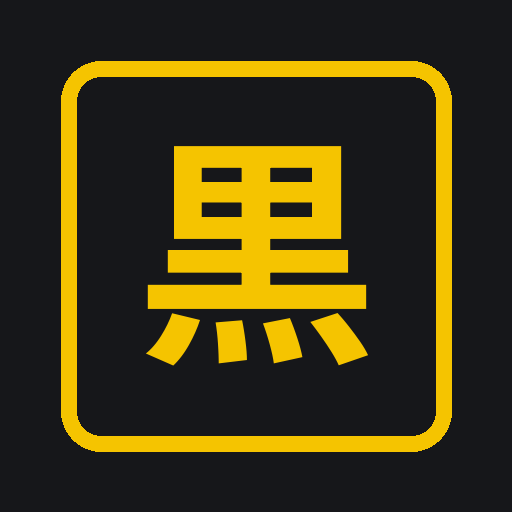
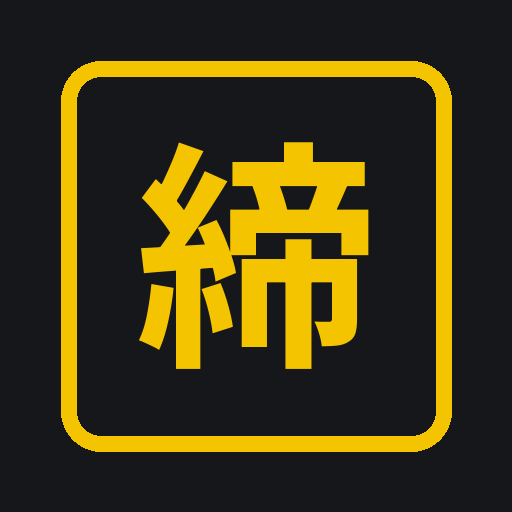
屋号（仮）を「しめ日ラボ」にし、料金と事業者情報を設定にまとめる
- 料金（お試し・支払明細パック・利益まるごとパック・運行記録オプション）は
  site.config.ts の PLANS だけに置き、画面はここから読む
- 事業者の情報（氏名・所在地・電話・登録番号）は環境変数から読む（Git に入れない）
- ロゴとアイコンを「締」に変える

Claude-Session: https://claude.ai/code/session_01XbCP4S7U93jv2CzqK4hTiG

Changed region(s): [[0.25, 0.25, 0.7188, 0.7188]]

diff --git a/side-business/site.config.ts b/side-business/site.config.ts
@@ -1,19 +1,24 @@
 /**
- * サイト全体の設定。名前・連絡先・料金を変えるときはここだけを直す。
+ * サイト全体の設定。屋号・連絡先・料金を変えるときはここだけを直す。
  *
- * 個人の情報は Git に入れず、Vercel の環境変数から読む：
- *   OWNER_NAME                 事業者名（個人の氏名。屋号があれば「屋号（氏名）」）
- *   NEXT_PUBLIC_CONTACT_EMAIL  問い合わせ先のメール（フォームが使えないときの予備）
+ * 個人の情報は Git に入れず、Vercel の環境変数から読む（未設定なら表示しない）：
+ *   OWNER_NAME                 事業者名（個人の氏名。屋号と並べて出す）
+ *   BUSINESS_ADDRESS           所在地（営業のメール・FAX には必ず書く。バーチャルオフィス可）
+ *   BUSINESS_PHONE             電話番号（050 番号など）
+ *   INVOICE_REG_NO             インボイスの登録番号（T＋13 桁。登録したら入れる）
+ *   NEXT_PUBLIC_CONTACT_EMAIL  問い合わせ先のメール
  *   NEXT_PUBLIC_BOOKING_URL    オンライン相談の予約ページ（Google カレンダーの予約スケジュールなど）
- * この事業は個人事業で、どの会社の事業でもない。会社名・会社のロゴ・会社のシステムの画面は載せない。
+ *   NEXT_PUBLIC_LINE_URL       LINE 公式アカウントの友だち追加 URL（任意）
+ * この事業は個人事業で、どの会社の事業でもない。会社名・会社のロゴ・会社のシステムの画面・データは載せない。
  */
 
 export const SITE = {
-  name: "運送しくみ工房",
-  shortName: "しくみ工房",
-  tagline: "運送会社の月末を、30分で終わらせる。",
+  /** 屋号（仮）。商標・同じ屋号が無いか確かめてから決める */
+  name: "しめ日ラボ",
+  shortName: "しめ日ラボ",
+  tagline: "業務委託ドライバーの月末の締めを、御社のルールのまま自動に。",
   description:
-    "業務委託ドライバーの支払明細・振込データ・案件ごとの利益を、御社のやり方のまま自動にする仕組みを作ります。作るのは現役の運送会社経営者。インボイスの経過措置（2026年10月から70%）にも合わせます。",
+    "軽貨物・運送会社向け。業務委託ドライバーの支払明細・振込データ・案件別の利益を、今の Excel のルールのまま自動にする仕組みを、御社のアカウントに作ります。作るのは現役の軽貨物会社の代表。10月からのインボイス経過措置（控除70%）にも対応。",
   locale: "ja_JP",
   /** 本番の URL（環境変数 NEXT_PUBLIC_SITE_URL で上書き） */
   url: (process.env.NEXT_PUBLIC_SITE_URL ?? "http://localhost:3200").replace(/\/+$/, ""),
@@ -22,9 +27,115 @@ export const SITE = {
 export const CONTACT = {
   email: process.env.NEXT_PUBLIC_CONTACT_EMAIL?.trim() || null,
   bookingUrl: process.env.NEXT_PUBLIC_BOOKING_URL?.trim() || null,
+  lineUrl: process.env.NEXT_PUBLIC_LINE_URL?.trim() || null,
 } as const;
 
-/** 事業者名（プライバシーポリシーなどに出す）。未設定なら null */
-export function ownerName(): string | null {
-  return process.env.OWNER_NAME?.trim() || null;
+export type BusinessInfo = {
+  ownerName: string | null;
+  address: string | null;
+  phone: string | null;
+  invoiceRegNo: string | null;
+};
+
+/** 事業者の情報（サーバー側だけで読む）。未設定の項目は null */
+export function businessInfo(): BusinessInfo {
+  const v = (key: string) => process.env[key]?.trim() || null;
+  return {
+    ownerName: v("OWNER_NAME"),
+    address: v("BUSINESS_ADDRESS"),
+    phone: v("BUSINESS_PHONE"),
+    invoiceRegNo: v("INVOICE_REG_NO"),
+  };
 }
+
+/** 互換のため残す（プライバシーポリシーなどが使う） */
+export function ownerName(): string | null {
+  return businessInfo().ownerName;
+}
+
+/**
+ * 料金（すべて税抜）。ドライバーは何人でも同じ料金。サーバー代はお客様が直接払う（見積で目安を示す）。
+ * 根拠：競合（1 人月 1,000 円の協会アプリ、月 1〜5 万円の運送 SaaS、初期 100 万円以上の kintone・受託開発）の間に置く。
+ */
+export type Plan = {
+  id: string;
+  name: string;
+  forWhom: string;
+  initialYen: number;
+  monthlyYen: number;
+  weeks: string;
+  includes: string[];
+  note?: string;
+  featured?: boolean;
+};
+
+export const PLANS: Plan[] = [
+  {
+    id: "trial",
+    name: "先月分でお試し",
+    forWhom: "自社の数字で本当に合うか、まず確かめたい会社",
+    initialYen: 50000,
+    monthlyYen: 0,
+    weeks: "約2週間",
+    includes: [
+      "先月分の稼働・単価・控除の Excel をお預かり（ドライバー名は番号に置きかえて構いません）",
+      "支払明細を自動で計算し、実際の支払額と突き合わせ",
+      "合わなかった行と理由を 1 枚にまとめてお渡し",
+      "30 分のオンライン説明（録画もお渡し）",
+    ],
+    note: "本契約になったら、この 5 万円は初期費用から全額差し引きます。",
+  },
+  {
+    id: "payroll",
+    name: "支払明細パック",
+    forWhom: "業務委託ドライバー 10〜30 人で、月末の支払明細を Excel で作っている会社",
+    initialYen: 250000,
+    monthlyYen: 18000,
+    weeks: "約4週間",
+    featured: true,
+    includes: [
+      "ドライバー・案件・元請の台帳（今の Excel から取り込み）",
+      "ドライバー別・案件別の単価と、数量×単価の自動計算",
+      "管理費・ロイヤリティ・リースなどの控除と、その月だけの調整",
+      "消費税の計算と、免税ドライバーへの支払で控除できない分（経過措置）の表示",
+      "登録番号・税率ごとの金額などを載せた支払明細 PDF（仕入明細書として使う形にも対応）",
+      "銀行に出せる全銀形式の振込データ（振込は御社が行います。当方はお金に触れません）",
+      "フリーランス法の取引条件明示書と、支払期日（60日以内）のチェック",
+      "1 か月の並行運用（今の Excel と両方で締め、差が 0 になるまで確かめる）",
+    ],
+  },
+  {
+    id: "profit",
+    name: "利益まるごとパック",
+    forWhom: "ドライバー 20〜50 人・元請が複数あり、どこで儲かっているかを知りたい会社",
+    initialYen: 480000,
+    monthlyYen: 35000,
+    weeks: "約6週間",
+    includes: [
+      "支払明細パックのすべて",
+      "案件別・元請別・ドライバー別の売上・支払・利益と、月ごとの推移",
+      "元請への請求書の作成",
+      "元請の支払通知と自社の実績の突き合わせ",
+      "経費の登録と営業利益、月の目標と進み具合",
+      "社長向けのスマホ画面（今月の数字が 1 画面で分かる）",
+    ],
+  },
+];
+
+export const OPTIONS = [
+  {
+    id: "records",
+    name: "運行記録オプション（点呼・業務記録・事故記録）",
+    initialYen: 150000,
+    monthlyYen: 10000,
+    note: "上のパックとあわせてのみ。ドライバー本人が記録し、会社は見られる形で作ります。",
+  },
+] as const;
+
+/** 保守（月額）に含むもの */
+export const MAINTENANCE_INCLUDES = [
+  "不具合の修正",
+  "税率・経過措置など制度の変更への対応",
+  "月 2 時間までの小さな変更",
+  "平日のご連絡に 2 営業日以内にお返事",
+] as const;

diff --git a/side-business/components/plate-logo.tsx b/side-business/components/plate-logo.tsx
@@ -1,11 +1,11 @@
-/** 黒ナンバーのプレートを模したロゴ */
+/** 屋号のロゴ（黒地に黄色の「締」。月末の締めを表す） */
 export function PlateLogo({ className = "" }: { className?: string }) {
   return (
     <span
       aria-hidden
       className={`inline-flex h-7 min-w-10 items-center justify-center rounded-md border-2 border-plate-foreground bg-plate px-1.5 text-sm font-bold leading-none text-plate-foreground ${className}`}
     >
-      黒
+      締
     </span>
   );
 }

diff --git a/side-business/scripts/gen-icons.py b/side-business/scripts/gen-icons.py
@@ -1,4 +1,4 @@
-"""アプリのアイコン（黒地に黄色の「黒」）を作る。python3 scripts/gen-icons.py FONT_PATH"""
+"""アプリのアイコン（黒地に黄色の「締」）を作る。python3 scripts/gen-icons.py FONT_PATH"""
 import sys
 from PIL import Image, ImageDraw, ImageFont
 
@@ -13,7 +13,7 @@ def icon(size, path, pad_ratio=0.0):
     r = int(size * 0.08)
     d.rounded_rectangle([pad, pad, size - pad, size - pad], radius=r, outline=YELLOW, width=max(2, size // 32))
     font = ImageFont.truetype(font_path, int((size - 2 * pad) * 0.62))
-    text = "黒"
+    text = "締"
     box = d.textbbox((0, 0), text, font=font)
     w, h = box[2] - box[0], box[3] - box[1]
     d.text(((size - w) / 2 - box[0], (size - h) / 2 - box[1]), text, font=font, fill=YELLOW)
